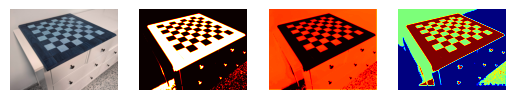
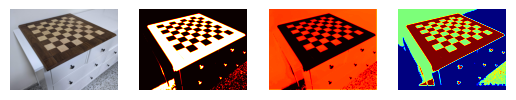
upload gif, fix bgr-rgb, remove videowriter

Changed region(s): [[0.0, 0.15, 0.2481, 0.9]]

diff --git a/matting.py b/matting.py
@@ -89,7 +89,7 @@ def trimapify(im, im_name):
     
     plt.figure()
     plt.subplot(1,4,1)
-    plt.imshow(im)
+    plt.imshow(cv2.cvtColor(im, cv2.COLOR_BGR2RGB))
     plt.axis('off')
     plt.subplot(1,4,2)
     plt.imshow(foreground, cmap='hot')
